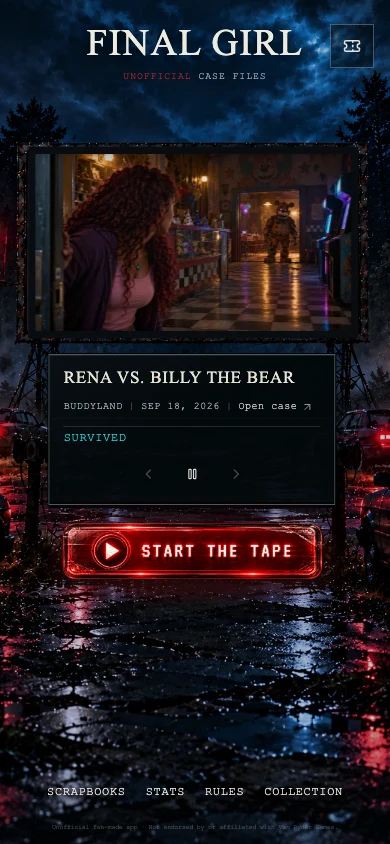
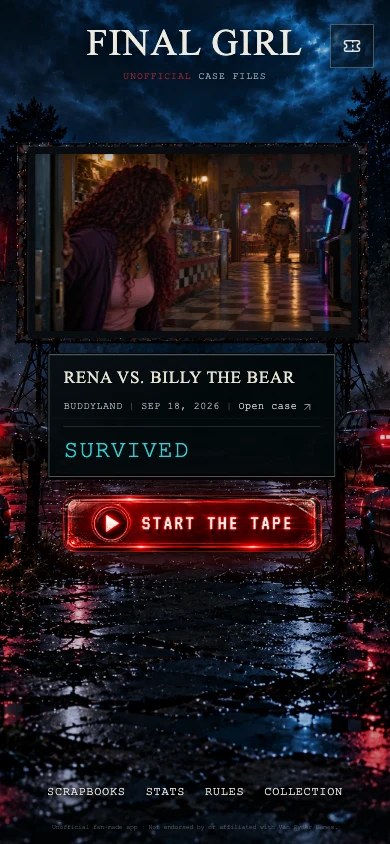
Simplify automatic screenings and enlarge marquee outcomes

Changed region(s): [[0.1231, 0.4929, 0.8615, 0.7085]]

diff --git a/tests/browser/theater.spec.ts b/tests/browser/theater.spec.ts
@@ -103,7 +103,8 @@ test('projected scenes preserve the full artwork and the theater opens casting',
   expect(archive.calls).toEqual([]);
 });
 
-test('projection controls identify the game and open its exact case file', async ({ page, archive }, testInfo) => {
+test('automatic screenings identify the game and open its exact case file', async ({ page, archive }, testInfo) => {
+  await page.clock.install();
   const olderId = '22222222-2222-4222-8222-222222222222';
   archive.history = [
     { id: gameId, timestamp: 2000, outcome: 'won', killer: 'Hans', location: 'Camp Happy Trails', final_girl: 'Laurie', scene_image_url: 'http://127.0.0.1:4173/theater-a.png' },
@@ -113,16 +114,17 @@ test('projection controls identify the game and open its exact case file', async
   await page.route(/\/theater-[ab]\.png$/, route => route.fulfill({ contentType: 'image/png', path: resolve('src/assets/locations/ai/buddyland.png') }));
   await page.goto('/');
   await expect(page.getByRole('heading', { name: 'Laurie vs. Hans' })).toBeVisible();
-  await page.getByRole('button', { name: 'Next scene' }).click();
+  await page.mouse.move(0, 0);
+  await page.clock.fastForward(16000);
   await expect(page.getByRole('heading', { name: 'Rena vs. Billy the Bear' })).toBeVisible();
-  await expect(page.getByRole('button', { name: 'Play slideshow' })).toBeVisible();
+  await expect(page.locator('.theater-transport')).toHaveCount(0);
   await page.screenshot({ path: testInfo.outputPath('personal-screening.png'), fullPage: true });
   await page.getByRole('button', { name: 'Open case file for Rena vs. Billy the Bear', exact: true }).click();
   await expect(page.locator('.story-page-content').getByText('This is the older Buddyland case file.')).toBeVisible();
   expect(archive.calls).toEqual([]);
 });
 
-test('compact captions keep a long matchup, its case link, and touch controls readable', async ({ page, archive }, testInfo) => {
+test('the larger verdict and long matchup stay readable without playback controls', async ({ page, archive }, testInfo) => {
   archive.history = [{ id: gameId, timestamp: Date.UTC(2026, 8, 18, 18), outcome: 'won', killer: 'The Tormentor',
     location: 'Falconwood', final_girl: 'Janelle', scene_image_url: 'http://127.0.0.1:4173/theater-a.png', intro_story: 'The Falconwood case.' }];
   await archive.install(page);
@@ -137,17 +139,11 @@ test('compact captions keep a long matchup, its case link, and touch controls re
     await page.setViewportSize(viewport);
     await expect(page.locator('.theater-screen-wrap')).toHaveAttribute('data-composition', viewport.width < 640 ? 'portrait' : 'landscape');
     const caption = (await page.locator('.theater-caption').boundingBox())!;
-    const controls = (await page.getByRole('group', { name: 'Projection controls' }).boundingBox())!;
+    const verdict = (await page.locator('.theater-verdict').boundingBox())!;
     expect(caption.x).toBeGreaterThanOrEqual(0);
     expect(caption.x + caption.width).toBeLessThanOrEqual(viewport.width);
-    expect(controls.y >= caption.y + caption.height - 1 || controls.x >= caption.x + caption.width - 1).toBe(true);
-    for (const button of await page.locator('.theater-transport button').all()) {
-      const box = (await button.boundingBox())!;
-      expect(box.width).toBeGreaterThanOrEqual(44);
-      expect(box.height).toBeGreaterThanOrEqual(44);
-      expect(box.x).toBeGreaterThanOrEqual(0);
-      expect(box.x + box.width).toBeLessThanOrEqual(viewport.width);
-    }
+    expect(verdict.y >= caption.y + caption.height - 1 || verdict.x >= caption.x + caption.width - 1).toBe(true);
+    await expect(page.getByRole('group', { name: 'Projection controls' })).toHaveCount(0);
     await expect(title).toHaveText('Janelle vs. The Tormentor');
     await page.screenshot({ path: testInfo.outputPath(`compact-caption-${viewport.width}.png`), fullPage: true });
   }
@@ -157,7 +153,7 @@ test('compact captions keep a long matchup, its case link, and touch controls re
   expect(archive.calls).toEqual([]);
 });
 
-test('projector flutter stays subtle and freezes for pause and reduced motion', async ({ page, archive }) => {
+test('projector flutter stays subtle and freezes for interaction and reduced motion', async ({ page, archive }) => {
   archive.history = [{ id: gameId, timestamp: 1, outcome: 'won', killer: 'Hans', location: 'Camp Happy Trails',
     final_girl: 'Laurie', scene_image_url: 'http://127.0.0.1:4173/theater-a.png' }];
   await archive.install(page);
@@ -179,13 +175,10 @@ test('projector flutter stays subtle and freezes for pause and reduced motion', 
   expect(Math.min(...moving)).toBeGreaterThanOrEqual(.0059);
   expect(Math.max(...moving)).toBeLessThanOrEqual(.0181);
   expect(Math.max(...moving) - Math.min(...moving)).toBeGreaterThan(.0005);
-  await page.getByRole('button', { name: 'Pause slideshow' }).click();
+  await page.getByRole('button', { name: 'Open case file for Laurie vs. Hans' }).focus();
   await expect(screen).toHaveAttribute('data-projecting', 'false');
   const still = await sample();
   expect(Math.max(...still) - Math.min(...still)).toBeLessThan(.00001);
-  await page.getByRole('button', { name: 'Play slideshow' }).click();
-  // Play must resume while the control still holds focus, including after a tap.
-  await expect(screen).toHaveAttribute('data-projecting', 'true');
   await page.getByRole('button', { name: 'Account', exact: true }).focus();
   await page.mouse.move(0, 0);
   await expect(screen).toHaveAttribute('data-projecting', 'true');
@@ -197,7 +190,7 @@ test('projector flutter stays subtle and freezes for pause and reduced motion', 
   await expect(screen).toHaveAttribute('data-projecting', 'false');
   expect(await screen.evaluate(el => getComputedStyle(el, '::before').animationName)).toBe('none');
   expect(await screen.evaluate(el => getComputedStyle(el, '::before').opacity)).toBe('0');
-  await expect(page.getByRole('button', { name: 'Automatic playback off for reduced motion' })).toBeDisabled();
+  await expect(page.getByRole('group', { name: 'Projection controls' })).toHaveCount(0);
   await expect(page.locator('.theater-scenery')).toHaveCSS('animation-name', 'none');
   expect(archive.calls).toEqual([]);
 });
@@ -214,20 +207,21 @@ test('broken artwork falls back to the same game’s poster and an exhausted ree
   working = true;
   await page.getByRole('button', { name: 'Retry projection' }).click();
   await expect(page.getByRole('img', { name: /Poster from Laurie/ })).toBeVisible();
-  await expect(page.getByRole('button', { name: 'Next scene' })).toBeDisabled();
+  await expect(page.locator('.theater-transport')).toHaveCount(0);
   expect(archive.calls).toEqual([]);
 });
 
-test('reduced motion keeps the reel still while manual navigation works', async ({ page, archive }) => {
+test('reduced motion keeps the automatic reel still without playback controls', async ({ page, archive }) => {
+  await page.clock.install();
   archive.history = ['a', 'b'].map((id, i) => ({ id: i ? '22222222-2222-4222-8222-222222222222' : gameId, timestamp: 2000 - i, outcome: 'won', killer: 'Hans', location: 'Camp Happy Trails', final_girl: i ? 'Reiko' : 'Laurie', scene_image_url: `http://127.0.0.1:4173/theater-${id}.png` }));
   await archive.install(page);
   await page.route(/\/theater-[ab]\.png$/, route => route.fulfill({ contentType: 'image/png', path: resolve('src/assets/locations/ai/camp-happy-trails.png') }));
   await page.emulateMedia({ reducedMotion: 'reduce' });
   await page.goto('/');
   await expect(page.getByRole('heading', { name: 'Laurie vs. Hans' })).toBeVisible();
-  await expect(page.getByRole('button', { name: 'Automatic playback off for reduced motion' })).toBeDisabled();
-  await page.getByRole('button', { name: 'Next scene' }).click();
-  await expect(page.getByRole('heading', { name: 'Reiko vs. Hans' })).toBeVisible();
+  await expect(page.getByRole('group', { name: 'Projection controls' })).toHaveCount(0);
+  await page.clock.fastForward(32000);
+  await expect(page.getByRole('heading', { name: 'Laurie vs. Hans' })).toBeVisible();
   await expect(page.locator('.theater-projection')).toHaveCount(1);
   await expect(page.locator('.theater-projection')).toHaveCSS('animation-name', 'none');
 });
@@ -242,8 +236,7 @@ test('an unfinished game owns the main screening while past cases remain availab
   await expect(page.getByText('Round 4 · 3 saved · 2 killed')).toBeVisible();
   await expect(page.getByRole('button', { name: 'RESUME GAME', exact: true })).toHaveCount(1);
   await expect(page.getByText('Laurie vs. Hans', { exact: true })).toHaveCount(1);
-  await page.getByRole('button', { name: 'Pause projection' }).click();
-  await expect(page.locator('.theater-screen')).toHaveAttribute('data-projecting', 'false');
+  await expect(page.locator('.theater-transport')).toHaveCount(0);
   await page.screenshot({ path: testInfo.outputPath('theater-resume.png'), fullPage: true });
   await page.getByRole('button', { name: 'Past screenings' }).click();
   await expect(page.getByRole('heading', { name: 'Rena vs. Billy the Bear' })).toBeVisible();
@@ -319,7 +312,7 @@ test('a long matchup and sacrificial victory remain readable above the footer', 
       return footer.y - button.y - button.height;
     }).toBeGreaterThan(20);
     const program = (await page.locator('.theater-program').boundingBox())!;
-    for (const selector of ['.theater-caption h2', '.theater-caption-details', '.theater-verdict', '.theater-transport']) {
+    for (const selector of ['.theater-caption h2', '.theater-caption-details', '.theater-verdict']) {
       const box = (await page.locator(selector).boundingBox())!;
       expect(box.x).toBeGreaterThanOrEqual(program.x);
       expect(box.x + box.width).toBeLessThanOrEqual(program.x + program.width);

diff --git a/src/styles/theater.css b/src/styles/theater.css
@@ -43,8 +43,8 @@
 .theater-title-copy p { font-family: 'Courier New', monospace; font-size: clamp(8px, 1.8cqw, 14px); color: #e7e0cfb3; }
 .theater-lower { position: absolute; left: var(--marquee-x); top: var(--marquee-y); width: var(--marquee-width); z-index: 6; }
 .theater-program { position: relative; width: 100%; min-height: 100px; padding: 15px 22px 10px; border: 1px solid #8897978c; outline: 1px solid #010406; background: linear-gradient(155deg, #adc8d408, transparent 45%), #03090df5; box-shadow: inset 0 1px #d0d5ca14, inset 0 -2px #000a, 0 3px 0 #020407, 0 8px 16px #0007; color: #e9e3d6; }
-.theater-program-personal { display: grid; grid-template-columns: minmax(0,1fr) auto; grid-template-rows: auto auto; gap: 0 14px; align-items: center; }
-.theater-caption { grid-column: 1; grid-row: 1 / 3; min-width: 0; }
+.theater-program-personal { display: grid; grid-template-columns: minmax(0,1fr) auto; grid-template-rows: auto; gap: 0 18px; align-items: center; }
+.theater-caption { grid-column: 1; grid-row: 1; min-width: 0; }
 .theater-caption h2 { margin: 0 0 5px; font-family: var(--font-display); font-size: clamp(18px, 1.45vw, 25px); font-weight: 500; line-height: 1.2; letter-spacing: .045em; text-transform: uppercase; overflow-wrap: anywhere; }
 .theater-caption-details { display: flex; align-items: center; flex-wrap: wrap; gap: 0 8px; min-width: 0; font: 12px/1.6 'Courier New', monospace; letter-spacing: .055em; text-transform: uppercase; color: #b2bac1; }
 .theater-caption-details > span:first-child { overflow-wrap: anywhere; }
@@ -52,21 +52,15 @@
 .theater-caption-link { display: inline-flex; align-items: center; gap: 4px; min-height: 44px; margin-block: -8px; font: inherit; color: #c9d0d3; text-align: left; }
 .theater-caption-link:hover { color: #fff5df; text-decoration: underline; text-underline-offset: 4px; }
 .theater-caption-link svg { flex-shrink: 0; opacity: .7; }
-.theater-verdict { grid-column: 2; grid-row: 1; margin: 0; max-width: 145px; padding-left: 16px; border-left: 1px solid #a8b6b74d; font: 17px/1.3 'Courier New', monospace; letter-spacing: .055em; text-transform: uppercase; text-align: right; }
+.theater-verdict { grid-column: 2; grid-row: 1; display: flex; align-items: center; justify-content: flex-end; align-self: stretch; margin: 0; max-width: 190px; padding-left: 20px; border-left: 1px solid #a8b6b74d; font: 500 clamp(24px, 1.75vw, 30px)/1.2 'Courier New', monospace; letter-spacing: .055em; text-transform: uppercase; text-align: right; }
+.theater-verdict-long { font-size: clamp(18px, 1.25vw, 22px); }
 .theater-survived { color: #20d6da; }
 .theater-lost { color: #e48679; }
 .theater-in-progress { color: #d0bd8d; }
 .theater-progress-line { margin-top: 6px; font: 11px/1.5 'Courier New', monospace; color: #acb8bc; }
-.theater-reel-controls { grid-column: 2; grid-row: 2; justify-self: end; }
-.theater-transport { display: flex; align-items: center; }
-.theater-transport button { display: grid; place-items: center; width: 44px; height: 44px; color: #dddcd3; }
-.theater-transport svg { pointer-events: none; filter: drop-shadow(0 1px 2px #000); }
-.theater-transport button:disabled { opacity: .3; cursor: default; }
-.theater-transport button:hover:not(:disabled) { background: #7d9da11c; color: #38d3d7; }
 .theater-mode-switch { grid-column: 1 / -1; grid-row: 1; display: flex; justify-content: center; gap: 22px; border-bottom: 1px solid #a8b6b733; margin: -8px 0 12px; }
-.theater-program-active .theater-caption { grid-row: 2 / 4; }
+.theater-program-active .theater-caption { grid-row: 2; }
 .theater-program-active .theater-verdict { grid-row: 2; }
-.theater-program-active .theater-reel-controls { grid-row: 3; }
 .theater-mode-switch button { min-height: 44px; padding: 4px 0; font: 11px/1.4 'Courier New', monospace; text-transform: uppercase; letter-spacing: .08em; color: #b7c1c6; border-bottom: 1px solid transparent; }
 .theater-mode-switch button[aria-pressed=true] { color: #f1e7d5; border-color: #b74d43; }
 .theater-empty-program { text-align: center; }
@@ -128,7 +122,8 @@
   .theater-header { padding-inline: 24px; }
   .theater-caption h2 { font-size: 18px; }
   .theater-program { padding-inline: 16px; }
-  .theater-verdict { font-size: 14px; max-width: 120px; padding-left: 10px; }
+  .theater-verdict { font-size: 24px; max-width: 165px; padding-left: 14px; }
+  .theater-verdict-long { font-size: 18px; }
   .theater-footer nav { gap: 8px 20px; }
 }
 @media (min-width: 640px) and (max-width: 799px) { .theater-scene-plane { top: calc(var(--stage-height) * -.035); } }
@@ -140,17 +135,15 @@
   .theater-account { min-height: 44px; width: 44px; padding: 0; background: #03080b80; }
   .theater-account-text { display: none; }
   .theater-program { padding: 13px 14px 8px; min-height: 116px; }
-  .theater-program-personal { grid-template-columns: minmax(0,1fr); grid-template-rows: auto auto auto; gap: 5px; }
+  .theater-program-personal { grid-template-columns: minmax(0,1fr); grid-template-rows: auto auto; gap: 5px; }
   .theater-caption { grid-column: 1; grid-row: 1; }
   .theater-caption h2 { font-size: 17px; line-height: 1.18; }
   .theater-caption-details { font-size: 10px; gap: 0 6px; }
-  .theater-verdict { grid-column: 1; grid-row: 2; max-width: none; padding: 4px 0 0; border-left: 0; border-top: 1px solid #9ea9aa33; font-size: 12px; text-align: left; }
-  .theater-reel-controls { grid-column: 1; grid-row: 3; justify-self: center; }
-  .theater-transport button { height: 44px; width: 44px; }
+  .theater-verdict { grid-column: 1; grid-row: 2; justify-content: flex-start; max-width: none; padding: 10px 0 2px; border-left: 0; border-top: 1px solid #9ea9aa33; font-size: 24px; text-align: left; }
+  .theater-verdict-long { font-size: 18px; }
   .theater-mode-switch { gap: 18px; margin-bottom: 7px; }
   .theater-program-active .theater-caption { grid-row: 2; }
   .theater-program-active .theater-verdict { grid-row: 3; }
-  .theater-program-active .theater-reel-controls { grid-row: 4; }
   .theater-mode-switch button { font-size: 10px; min-height: 44px; }
   .theater-program-kicker { font-size: 18px; }
   .theater-program-line { font-size: 11px; }

diff --git a/src/components/TheaterReel.tsx b/src/components/TheaterReel.tsx
@@ -1,5 +1,5 @@
 import { useState, type ReactNode } from 'react';
-import { ArrowUpRight, ChevronLeft, ChevronRight, Pause, Play, RotateCcw } from 'lucide-react';
+import { ArrowUpRight, RotateCcw } from 'lucide-react';
 import type { GameResult } from '@/hooks/useGameHistory';
 import { useTheaterReel } from '@/hooks/useTheaterReel';
 import { activeScreeningStatus, screeningDate, screeningVerdict } from '@/lib/theater';
@@ -21,18 +21,15 @@ interface TheaterReelProps {
 export const TheaterReel = ({ games, loading, historyError, onRetryHistory, onOpenCaseFile, activeGame, actions }: TheaterReelProps) => {
   const [hovered, setHovered] = useState(false);
   const [focused, setFocused] = useState(false);
-  const [explicitPlayback, setExplicitPlayback] = useState(false);
   const [showArchive, setShowArchive] = useState(false);
   const active = !showArchive ? activeGame : null;
-  const reel = useTheaterReel(games, (hovered || focused) && !explicitPlayback, active);
+  const reel = useTheaterReel(games, hovered || focused, active);
   const { current, previous } = reel;
   const selection = active?.selection ?? current;
   const title = selection ? `${selection.finalGirl} vs. ${selection.killer}` : '';
   const date = current && !active ? screeningDate(current.timestamp) : '';
   const warming = loading || (reel.pending && !current);
   const unavailable = !warming && !current && (reel.failedCount > 0 || Boolean(historyError));
-  const playbackLabel = reel.reducedMotion ? 'Automatic playback off for reduced motion'
-    : `${reel.paused ? 'Play' : 'Pause'} ${active ? 'projection' : 'slideshow'}`;
   const verdict = active ? 'In progress' : current ? screeningVerdict(current) : '';
   // The carousel now spans the scenery; only picture/marquee interaction pauses it.
   const isProjectionTarget = (target: EventTarget | null) => target instanceof Element && Boolean(target.closest('.theater-screen, .theater-program'));
@@ -52,14 +49,7 @@ export const TheaterReel = ({ games, loading, historyError, onRetryHistory, onOp
           </div>
           {active && <p className="theater-progress-line">{activeScreeningStatus(active)}</p>}
         </div>
-        <p className={`theater-verdict ${active ? 'theater-in-progress' : current?.outcome === 'won' ? 'theater-survived' : 'theater-lost'}`}>{verdict}</p>
-        {(!active || current) && <div className="theater-reel-controls"><div className="theater-transport" role="group" aria-label="Projection controls">
-          {!active && <button onClick={() => reel.move(-1)} disabled={reel.screenings.length < 2} aria-label="Previous scene"><ChevronLeft size={16} aria-hidden="true" /></button>}
-          <button onClick={() => { if (reel.paused) setExplicitPlayback(true); reel.setPaused(!reel.paused); }} disabled={reel.reducedMotion || !current} aria-label={playbackLabel}>
-            {reel.paused || reel.reducedMotion ? <Play size={14} aria-hidden="true" /> : <Pause size={14} aria-hidden="true" />}
-          </button>
-          {!active && <button onClick={() => reel.move(1)} disabled={reel.screenings.length < 2} aria-label="Next scene"><ChevronRight size={16} aria-hidden="true" /></button>}
-        </div></div>}
+        <p className={`theater-verdict ${active ? 'theater-in-progress' : current?.outcome === 'won' ? 'theater-survived' : 'theater-lost'} ${verdict.length > 8 ? 'theater-verdict-long' : ''}`}>{verdict}</p>
       </> : <div className="theater-empty-program">
         <p className="theater-program-kicker">{warming ? 'Preparing the feature' : unavailable ? 'The archive is safe' : 'Tonight at Starlight'}</p>
         <p className="theater-program-line">{warming ? 'Bringing your stories to the screen.' : unavailable ? 'Stills unavailable. Your case files are safe.' : games.length ? 'Your case files are ready. New scenes will appear here.' : 'The screen is waiting for your first story.'}</p>
@@ -71,9 +61,9 @@ export const TheaterReel = ({ games, loading, historyError, onRetryHistory, onOp
     {actions}
   </>;
   return <section className="theater-reel" aria-label="Personal screenings" aria-roledescription="carousel"
-    onPointerOver={event => { if (event.pointerType === 'mouse' && isProjectionTarget(event.target) && !isProjectionTarget(event.relatedTarget)) { setHovered(true); setExplicitPlayback(false); } }}
+    onPointerOver={event => { if (event.pointerType === 'mouse' && isProjectionTarget(event.target) && !isProjectionTarget(event.relatedTarget)) { setHovered(true); } }}
     onPointerOut={event => { if (event.pointerType === 'mouse' && !isProjectionTarget(event.relatedTarget)) setHovered(false); }}
-    onFocusCapture={event => { if (isProjectionTarget(event.target)) { setFocused(true); setExplicitPlayback(false); } }}
+    onFocusCapture={event => { if (isProjectionTarget(event.target)) { setFocused(true); } }}
     onBlurCapture={event => { if (!isProjectionTarget(event.relatedTarget)) setFocused(false); }}>
     <DriveInScreen lower={lower} busy={reel.pending || (!active && loading)} projecting={Boolean(current) && reel.playing}>
       {current ? <ProjectorSlideshow current={current} previous={previous} reducedMotion={reel.reducedMotion} onImageError={reel.fail} /> : <div className="theater-title-card">

diff --git a/src/hooks/useTheaterReel.test.ts b/src/hooks/useTheaterReel.test.ts
@@ -18,16 +18,16 @@ beforeEach(() => { vi.useFakeTimers(); TestImage.instances = []; vi.stubGlobal('
 afterEach(() => { cleanup(); vi.useRealTimers(); vi.unstubAllGlobals(); vi.restoreAllMocks(); });
 
 describe('projection lifecycle', () => {
-  it('holds the visible picture until the next loads and manual changes pause the reel', () => {
+  it('holds the visible picture until the automatic next scene loads', () => {
     const { result } = renderHook(() => useTheaterReel(games, false));
     loaded('a');
-    act(() => result.current.move(1));
+    act(() => vi.advanceTimersByTime(16000));
     expect(result.current.current?.id).toBe('a');
     expect(result.current.pending).toBe(true);
     loaded('b');
     expect(result.current.current?.id).toBe('b');
     expect(result.current.previous?.id).toBe('a');
-    expect(result.current.paused).toBe(true);
+    expect(result.current.playing).toBe(true);
     act(() => vi.advanceTimersByTime(3000));
     expect(result.current.previous).toBeUndefined();
   });
@@ -41,10 +41,10 @@ describe('projection lifecycle', () => {
     loaded('b');
     expect(result.current.current?.id).toBe('b');
   });
-  it('ignores late image completions after a different scene is requested', () => {
-    const { result } = renderHook(() => useTheaterReel(games, false));
+  it('ignores late image completions after its case is removed', () => {
+    const { result, rerender } = renderHook(({ rows }) => useTheaterReel(rows, false), { initialProps: { rows: games } });
     const lateLoad = lastImage('a').onload!;
-    act(() => result.current.move(1));
+    rerender({ rows: games.slice(1) });
     loaded('b');
     act(() => lateLoad());
     expect(result.current.current?.id).toBe('b');
@@ -81,14 +81,13 @@ describe('projection lifecycle', () => {
     expect(result.current.current?.id).toBe('a');
     expect(result.current.playing).toBe(false);
   });
-  it('respects reduced motion and retains manual navigation', () => {
+  it('respects reduced motion without advancing the scene', () => {
     vi.spyOn(window, 'matchMedia').mockReturnValue({ matches: true, addEventListener: vi.fn(), removeEventListener: vi.fn() } as unknown as MediaQueryList);
     const { result } = renderHook(() => useTheaterReel(games, false));
     loaded('a');
     act(() => vi.advanceTimersByTime(20000));
     expect(result.current.pending).toBe(false);
-    act(() => result.current.move(1)); loaded('b');
-    expect(result.current.current?.id).toBe('b');
+    expect(result.current.current?.id).toBe('a');
     expect(result.current.playing).toBe(false);
   });
   it('removes deleted pictures immediately and cancels callbacks on unmount', () => {
@@ -102,3 +101,4 @@ describe('projection lifecycle', () => {
     expect(vi.getTimerCount()).toBe(0);
   });
 });
+

diff --git a/src/hooks/useTheaterReel.ts b/src/hooks/useTheaterReel.ts
@@ -17,7 +17,6 @@ export function useTheaterReel(games: GameResult[], interacting: boolean, active
   const [requestedId, setRequestedId] = useState<string | null>(null);
   const target = screenings.find(s => s.id === requestedId) ?? screenings[0];
   const [projection, setProjection] = useState<{ key: string | null; previous: string | null }>({ key: null, previous: null });
-  const [paused, setPaused] = useState(false);
   const current = screenings.find(s => s.key === projection.key);
   const previous = current ? screenings.find(s => s.key === projection.previous) : undefined;
   const currentIndex = current ? screenings.indexOf(current) : -1;
@@ -69,7 +68,7 @@ export function useTheaterReel(games: GameResult[], interacting: boolean, active
     return () => { image.onerror = null; };
   }, [nextUrl, visible, fail]);
 
-  const playing = !paused && !reducedMotion && visible && !interacting;
+  const playing = !reducedMotion && visible && !interacting;
   const currentKey = current?.key;
   const currentId = current?.id;
   const nextId = next?.id;
@@ -79,18 +78,12 @@ export function useTheaterReel(games: GameResult[], interacting: boolean, active
     return () => window.clearTimeout(timer);
   }, [playing, currentKey, currentId, targetKey, nextId]);
 
-  const move = (direction: number) => {
-    if (!screenings.length) return;
-    setPaused(true);
-    const i = target ? screenings.indexOf(target) : 0;
-    setRequestedId(screenings[(i + direction + screenings.length) % screenings.length].id);
-  };
-
-  return { screenings, current, previous, currentIndex, reducedMotion, paused, playing,
+  return { current, previous, reducedMotion, playing,
     pending: Boolean(target && current?.key !== target.key), failedCount: failed.size,
-    move, setPaused, fail, retryImages: () => {
+    fail, retryImages: () => {
       setRequestedId(null);
       setProjection({ key: null, previous: null });
       setFailed(new Set());
     } };
 }
+

diff --git a/docs/drive-in-scene.md b/docs/drive-in-scene.md
@@ -17,7 +17,7 @@ The photograph overscans wide displays. At narrow tablet widths its scale is cap
 
 ## Live marquee
 
-The dark metal/glass marquee is roughly 88% of projection width. It contains the matchup, location, recorded date, exact case action, outcome and 44px transport targets. Phone content stacks into readable rows. Active games put Now playing / Past screenings inside the marquee, with their actual round and victim summary.
+The dark metal/glass marquee is roughly 88% of projection width. It contains the matchup, location, recorded date, exact case action, and a larger outcome label. Phone content stacks into readable rows. Active games put Now playing / Past screenings inside the marquee, with their actual round and victim summary. The larger cyan outcome occupies the space previously used by transport controls; longer outcomes wrap at a balanced size.
 
 Outcome labels respect recorded health: a win with health above zero is Survived; a simultaneous-death win is Sacrificial victory; older wins without recorded health say Victory. Unknown dates are omitted. Case identifiers and survival are never invented.
 
@@ -25,7 +25,7 @@ The centered brand, compact Account control, 300px desktop / 260px phone tape ac
 
 ## Projection and accessibility
 
-The screen's black light layer varies opacity from .006 to .018 over an irregular 5.9-second sequence. It affects only projected light. Pause, interaction with the screen/marquee, and document visibility suspend it. Background and tape-action interaction do not unnecessarily pause the reel. Explicit Play works while its control retains focus. Reduced motion removes the animation and attenuation; manual scene navigation remains available.
+The screen's black light layer varies opacity from .006 to .018 over an irregular 5.9-second sequence. It affects only projected light. The reel plays automatically without playback or scene-navigation controls. Interaction with the screen/marquee and document visibility suspend it while a case is being read. Background and tape-action interaction do not unnecessarily pause it. Reduced motion removes the animation and automatic rotation; case files remain available through the case action and Scrapbooks.
 
 ## Review
 
